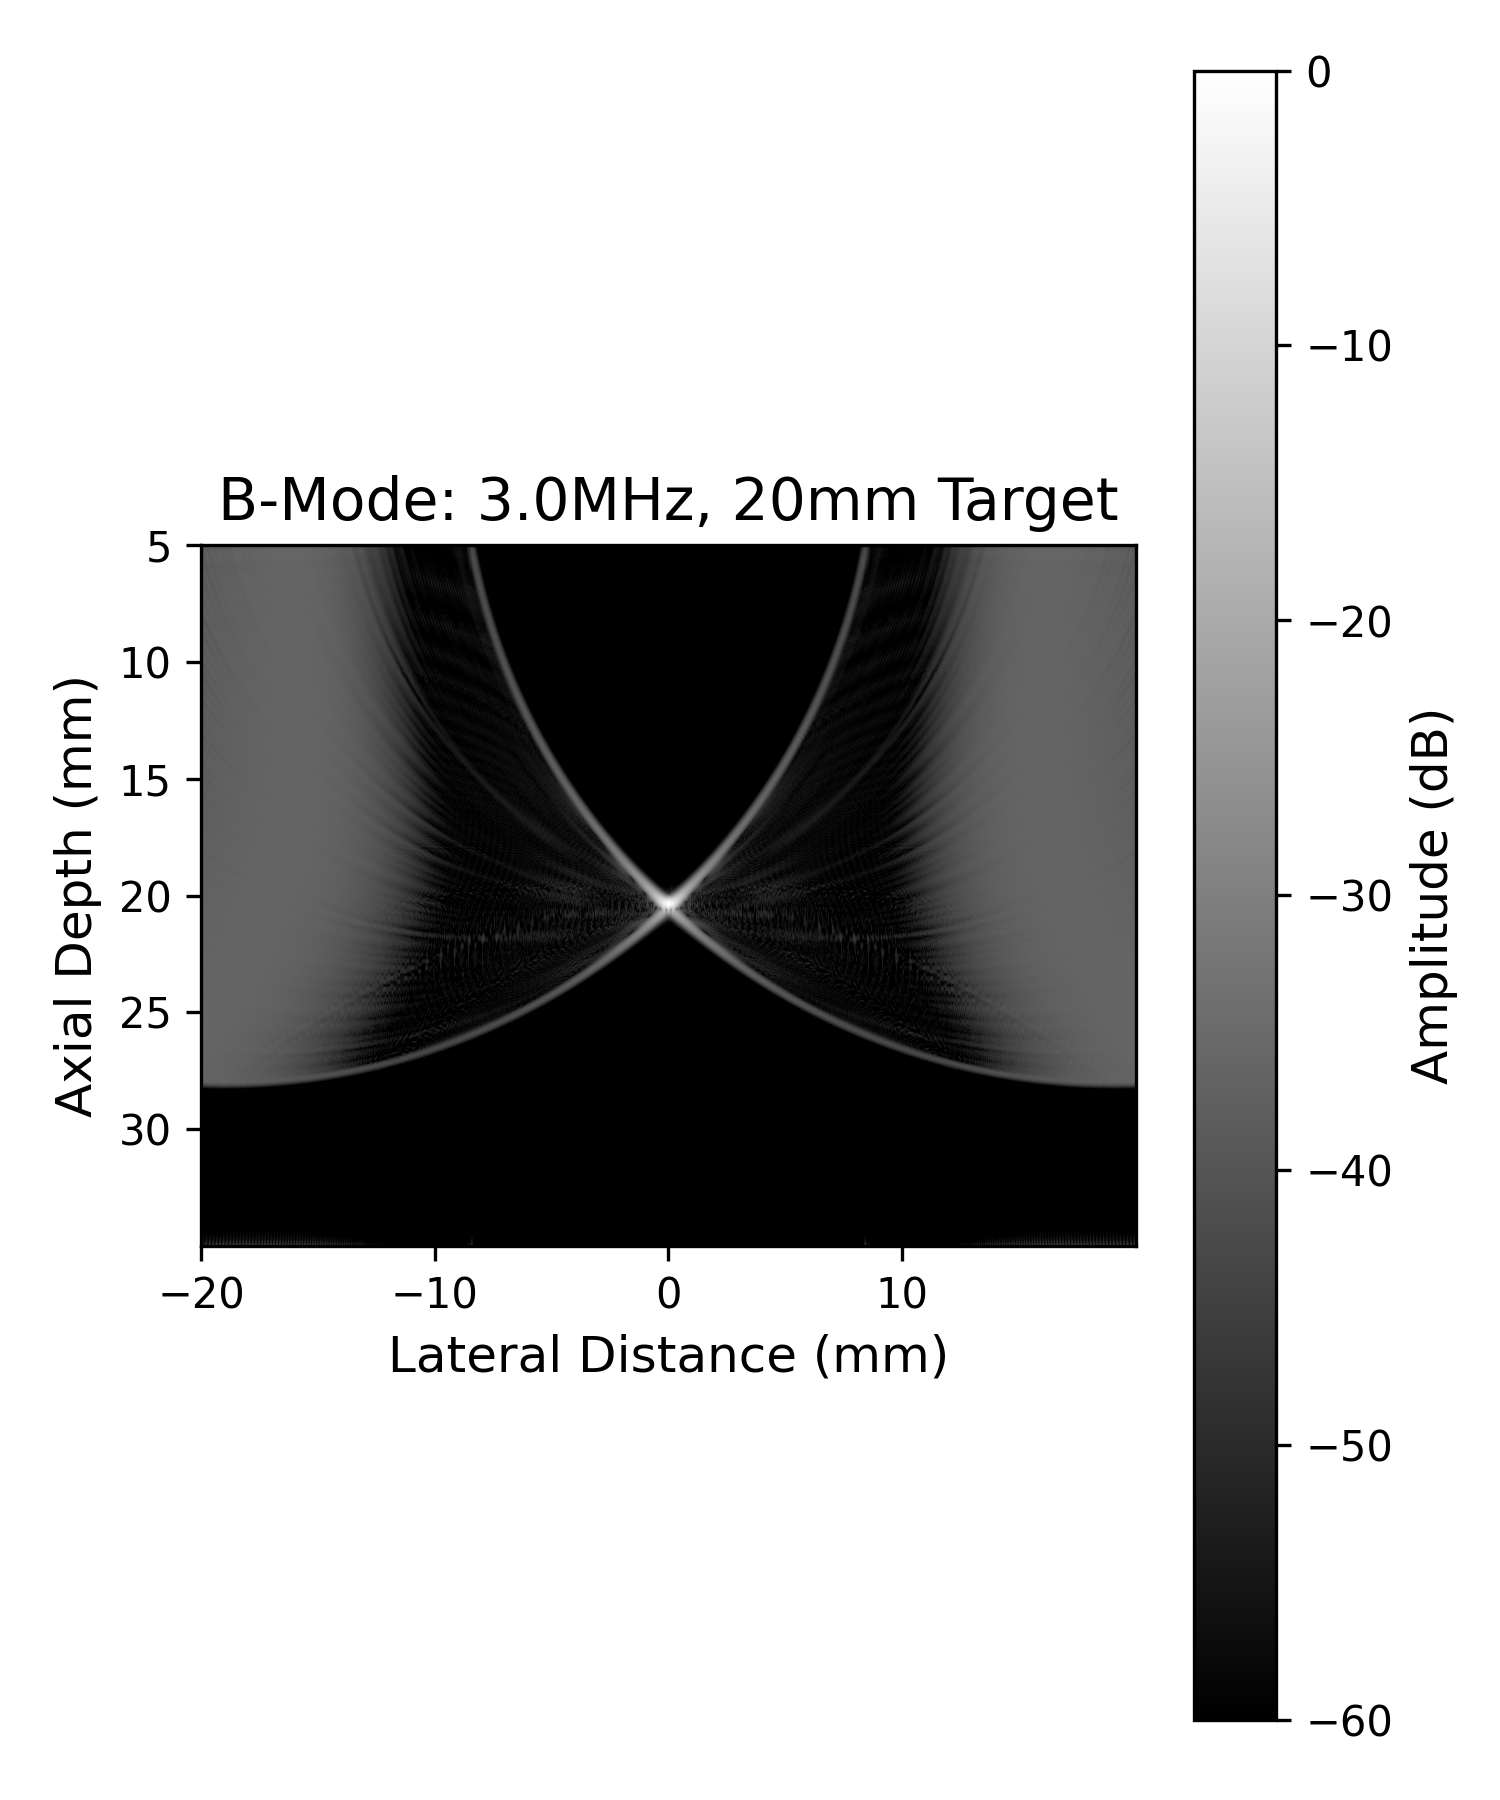
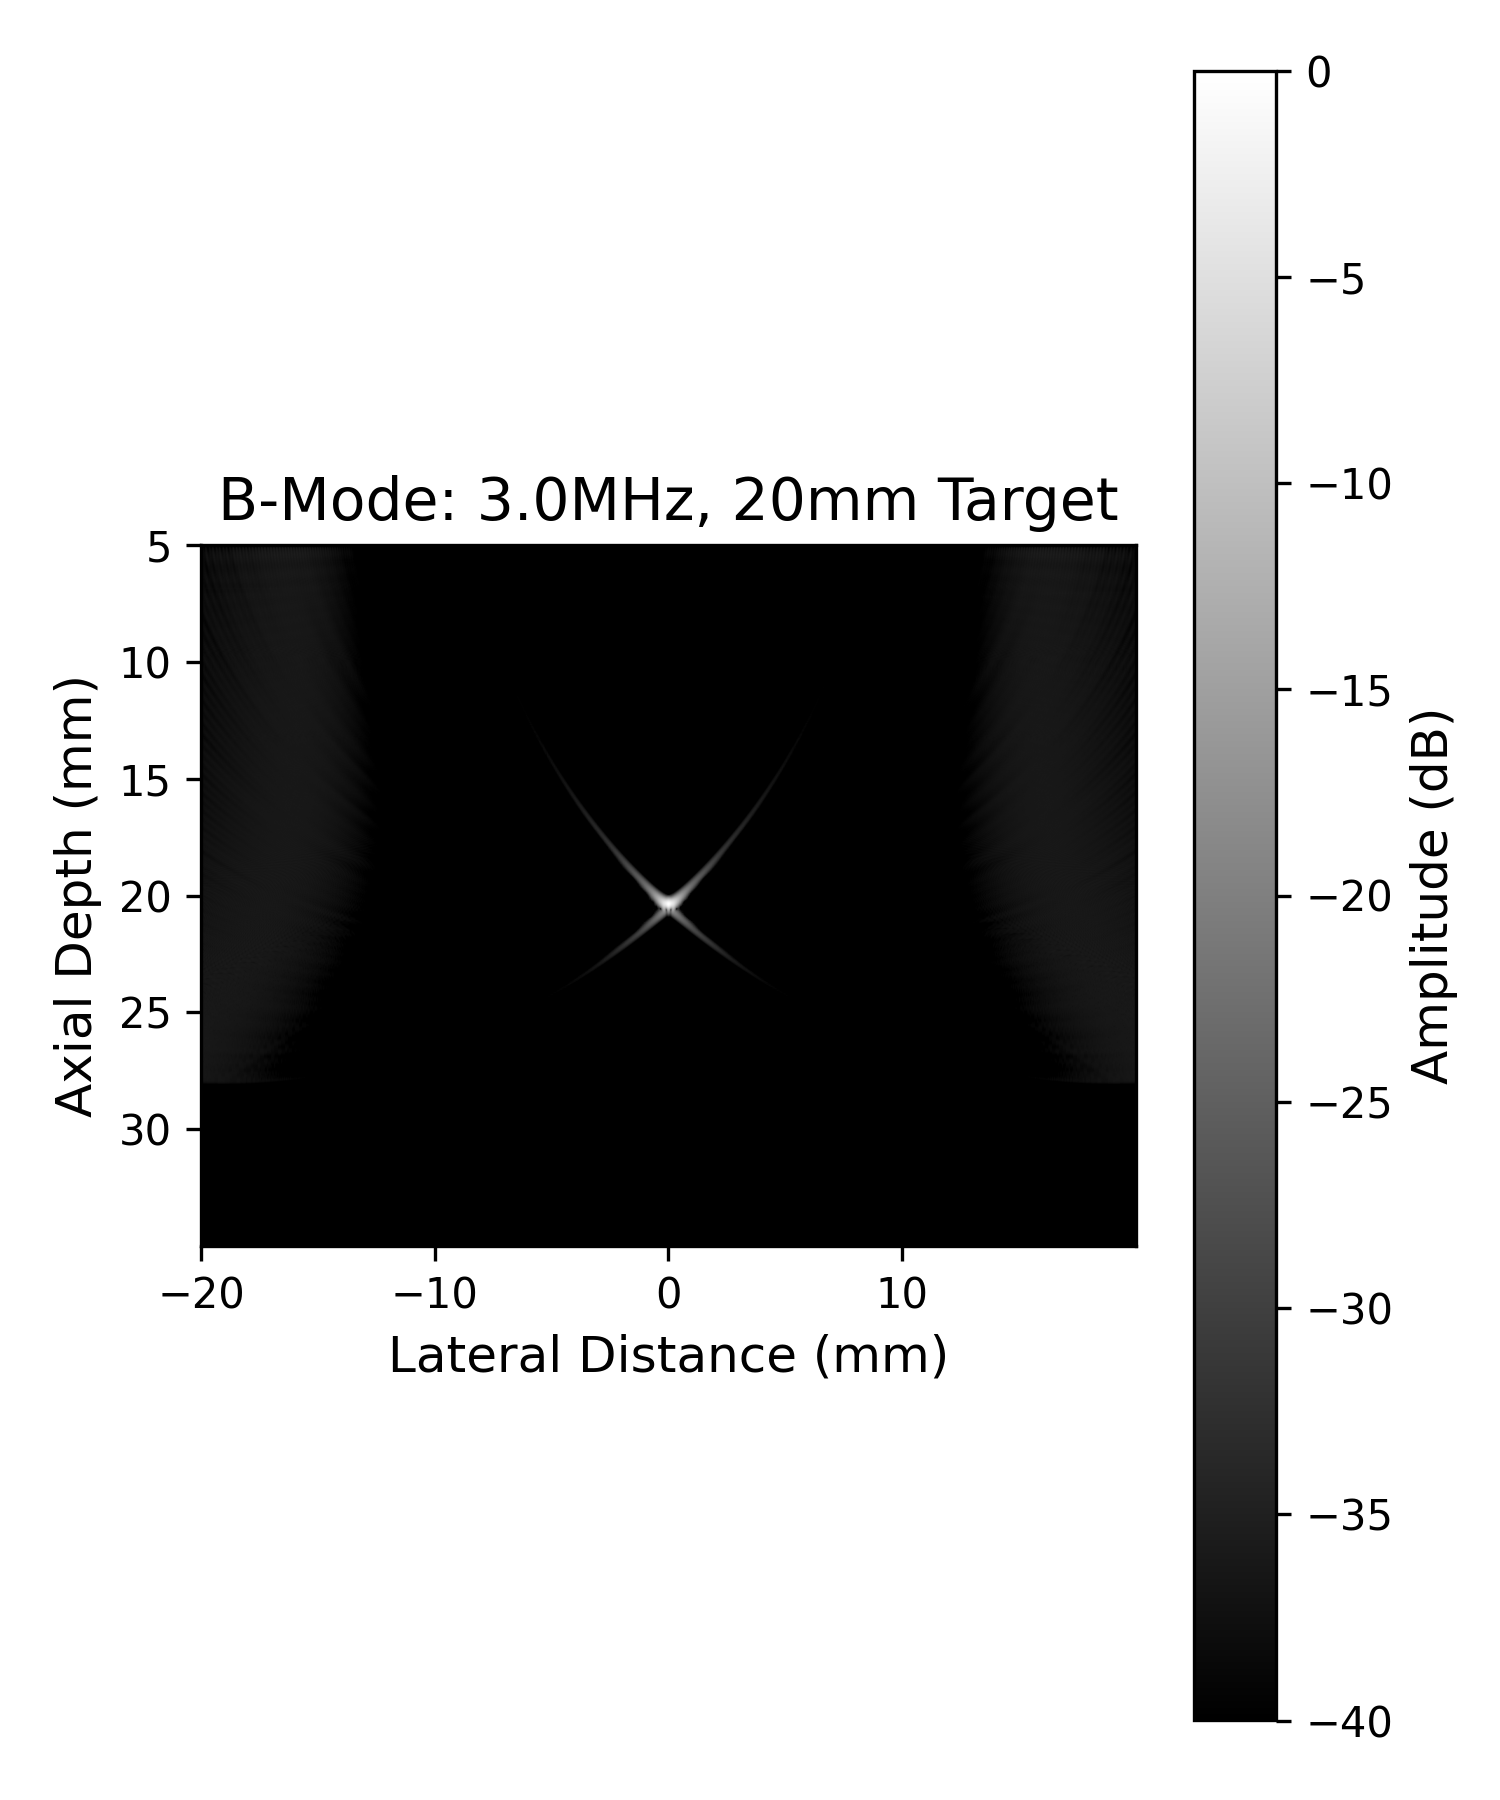
added visualization

diff --git a/visualization/visualization.py b/visualization/visualization.py
@@ -61,7 +61,7 @@ def plot_bmode(data, filename_base):
     bmode_db = db_scale(envelope)
     extent = [x_axis[0], x_axis[-1], z_axis[-1], z_axis[0]]
     
-    plt.imshow(bmode_db, extent=extent, cmap='gray', aspect='equal', vmin=-60, vmax=0)
+    plt.imshow(bmode_db, extent=extent, cmap='gray', aspect='equal', vmin=-40, vmax=0)
     plt.colorbar(label='Amplitude (dB)')
     
     plt.title(f"B-Mode: {freq_lbl}, {depth_lbl} Target")
